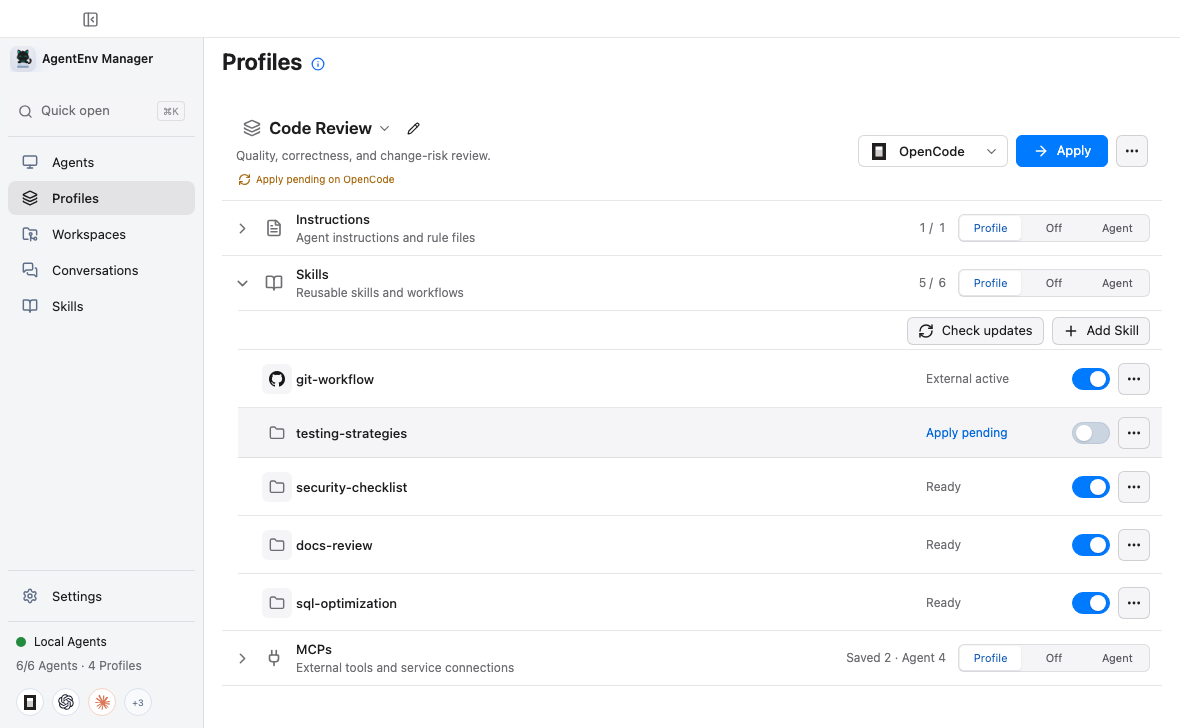
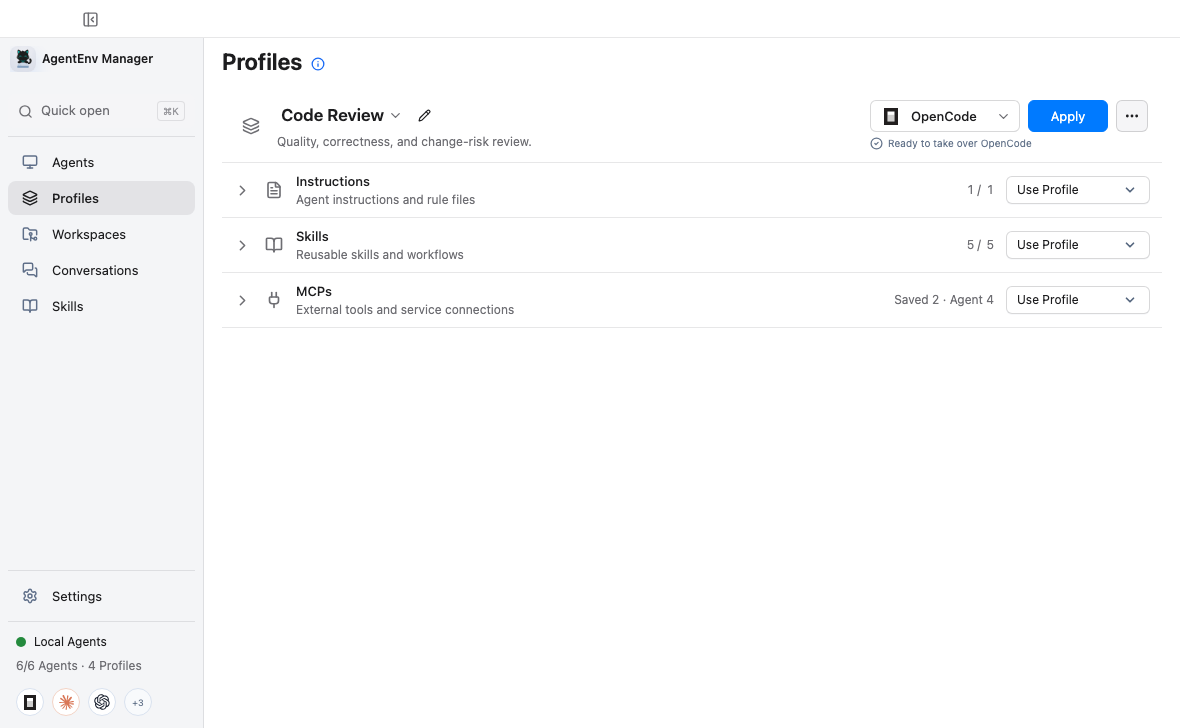
docs: refresh README rendering and screenshots

diff --git a/README.md b/README.md
@@ -8,11 +8,11 @@
 
 AgentEnv Manager 用来统一管理多个 coding agent 的工作环境，主要功能包括：
 
-- **Profile 切换：**保存不同的 Instructions、Skills 和 MCP 组合，并应用到 Codex、Claude Code、OpenCode 等 Agent。
-- **Skills 管理：**从本地、ZIP、GitHub 或 Git 仓库导入 Skills，集中启用、停用和更新，并持续检查来源变化。
-- **项目环境：**保存常用项目目录，管理项目自己的 Instructions 和 Skills，并直接用已安装的 Agent 打开。
-- **对话历史：**搜索多个 Agent 的本地历史对话，回到原对话，或交给另一个 Agent 继续。
-- **应用前试用：**预览 Profile 会带来的变化，用同一个任务对比当前环境和新 Profile，再决定是否应用。
+- **Profile 切换**：保存不同的 Instructions、Skills 和 MCP 组合，并应用到 Codex、Claude Code、OpenCode 等 Agent。
+- **Skills 管理**：从本地、ZIP、GitHub 或 Git 仓库导入 Skills，集中启用、停用和更新，并持续检查来源变化。
+- **项目环境**：保存常用项目目录，管理项目自己的 Instructions 和 Skills，并直接用已安装的 Agent 打开。
+- **对话历史**：搜索多个 Agent 的本地历史对话，回到原对话，或交给另一个 Agent 继续。
+- **应用前试用**：预览 Profile 会带来的变化，用同一个任务对比当前环境和新 Profile，再决定是否应用。
 
 它不会接管模型、账号、凭据或整份配置文件，只处理各 Agent 明确支持的 Instructions、Skills 和 MCP 开关。
 
@@ -34,7 +34,7 @@ brew upgrade --cask chroming/tap/agentenv-manager
 
 Homebrew 会按架构下载官方 Release、验证 SHA-256 并移除 quarantine。macOS、Windows 和 Linux 安装包也可以从 [GitHub Releases](https://github.com/chroming/agentenv-manager/releases/latest) 下载。
 
-macOS 直接下载包使用 ad-hoc 签名，没有 Developer ID 和公证。请先把应用复制到“应用程序”并推出 DMG，再按 [Apple 的说明](https://support.apple.com/guide/mac-help/open-a-mac-app-from-an-unknown-developer-mh40616/mac)选择“仍要打开”。首次安装后，只要应用所在目录可写，Homebrew 和直接下载版本都可以在设置中检查、验证并安装更新；直接更新启动失败时会自动恢复旧版本。
+macOS 直接下载包使用 ad-hoc 签名，没有 Developer ID 和公证。请先把应用复制到“应用程序”并推出 DMG，再按 [Apple 的说明](https://support.apple.com/guide/mac-help/open-a-mac-app-from-an-unknown-developer-mh40616/mac) 选择“仍要打开”。首次安装后，只要应用所在目录可写，Homebrew 和直接下载版本都可以在设置中检查、验证并安装更新；直接更新启动失败时会自动恢复旧版本。
 
 ## 第一次使用
 

diff --git a/README.en.md b/README.en.md
@@ -63,7 +63,7 @@ Both runs use isolated temporary Homes and Workspaces. Compare does not Apply th
 
 ## Workspaces
 
-Workspaces keeps references to frequently used local folders and shows the Instructions, Skills, and MCP names a selected Agent can load there. You can edit supported Workspace Instructions, copy Library Skills into ordinary folder-owned files, or open the folder with an installed Agent.
+Workspaces keep references to frequently used local folders and show the Instructions, Skills, and MCP names a selected Agent can load there. You can edit supported Workspace Instructions, copy Library Skills into ordinary folder-owned files, or open the folder with an installed Agent.
 
 ![Workspace resources](docs/images/workspaces.png)
 
